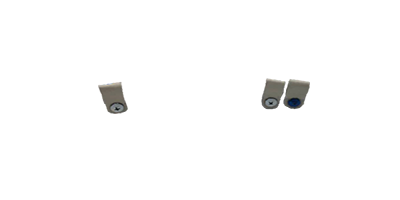
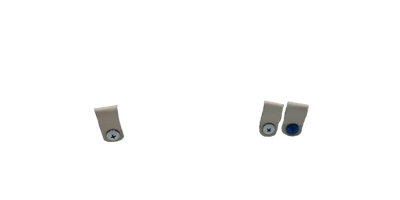
[feat]

Changed region(s): [[0.63, 0.39, 0.78, 0.69], [0.21, 0.39, 0.33, 0.72]]

diff --git a/show/demo.html b/show/demo.html
@@ -178,7 +178,7 @@
             {
               element: '.imgA',
               popover: {
-                title: '杯底',
+                title: '鞋底',
                 description: '必选，从产品1中选择',
                 position: 'bottom'
               }
@@ -186,7 +186,7 @@
             {
               element: '.imgB',
               popover: {
-                title: '杯身',
+                title: '鞋口',
                 description: '必选，从产品2中选择',
                 position: 'bottom'
               }
@@ -194,7 +194,7 @@
             {
               element: '.imgC',
               popover: {
-                title: '杯盖',
+                title: '鞋带',
                 description: '必选，从产品3中选择, 选择后可加入购物车',
                 position: 'bottom'
               }
@@ -202,7 +202,7 @@
             {
               element: '.imgD',
               popover: {
-                title: '配件',
+                title: '饰品',
                 description: '非必选，从产品4中选择',
                 position: 'bottom'
               }

diff --git a/show/static/css/demo.css b/show/static/css/demo.css
@@ -49,26 +49,26 @@ img {
 }
 
 .show-product .product-image .imgA {
-  height: 2.7rem;
-  top: 0;
+  /* height: 2.7rem; */
+  top: -10%;
   z-index: 2;
 }
 .show-product .product-image .imgB {
-  width: 5.5rem;
-  bottom: -0.1rem;
+  /* width: 5.5rem; */
+  top: -10%;
   z-index: 3;
 }
 .show-product .product-image .imgC {
-  width: 4rem;
-  bottom: -0.3rem;
+  width: 65%;
   z-index: 2;
+  top: 16%;
 }
 
 .show-product .product-image .imgD {
-  height: 1rem;
+  width: 30%;
   z-index: 3;
-  left: 1.3rem;
-  bottom: 1.3rem;
+  left: 15%;
+  top: 15%;
 }
 
 .product-container .show-product .product-step {
